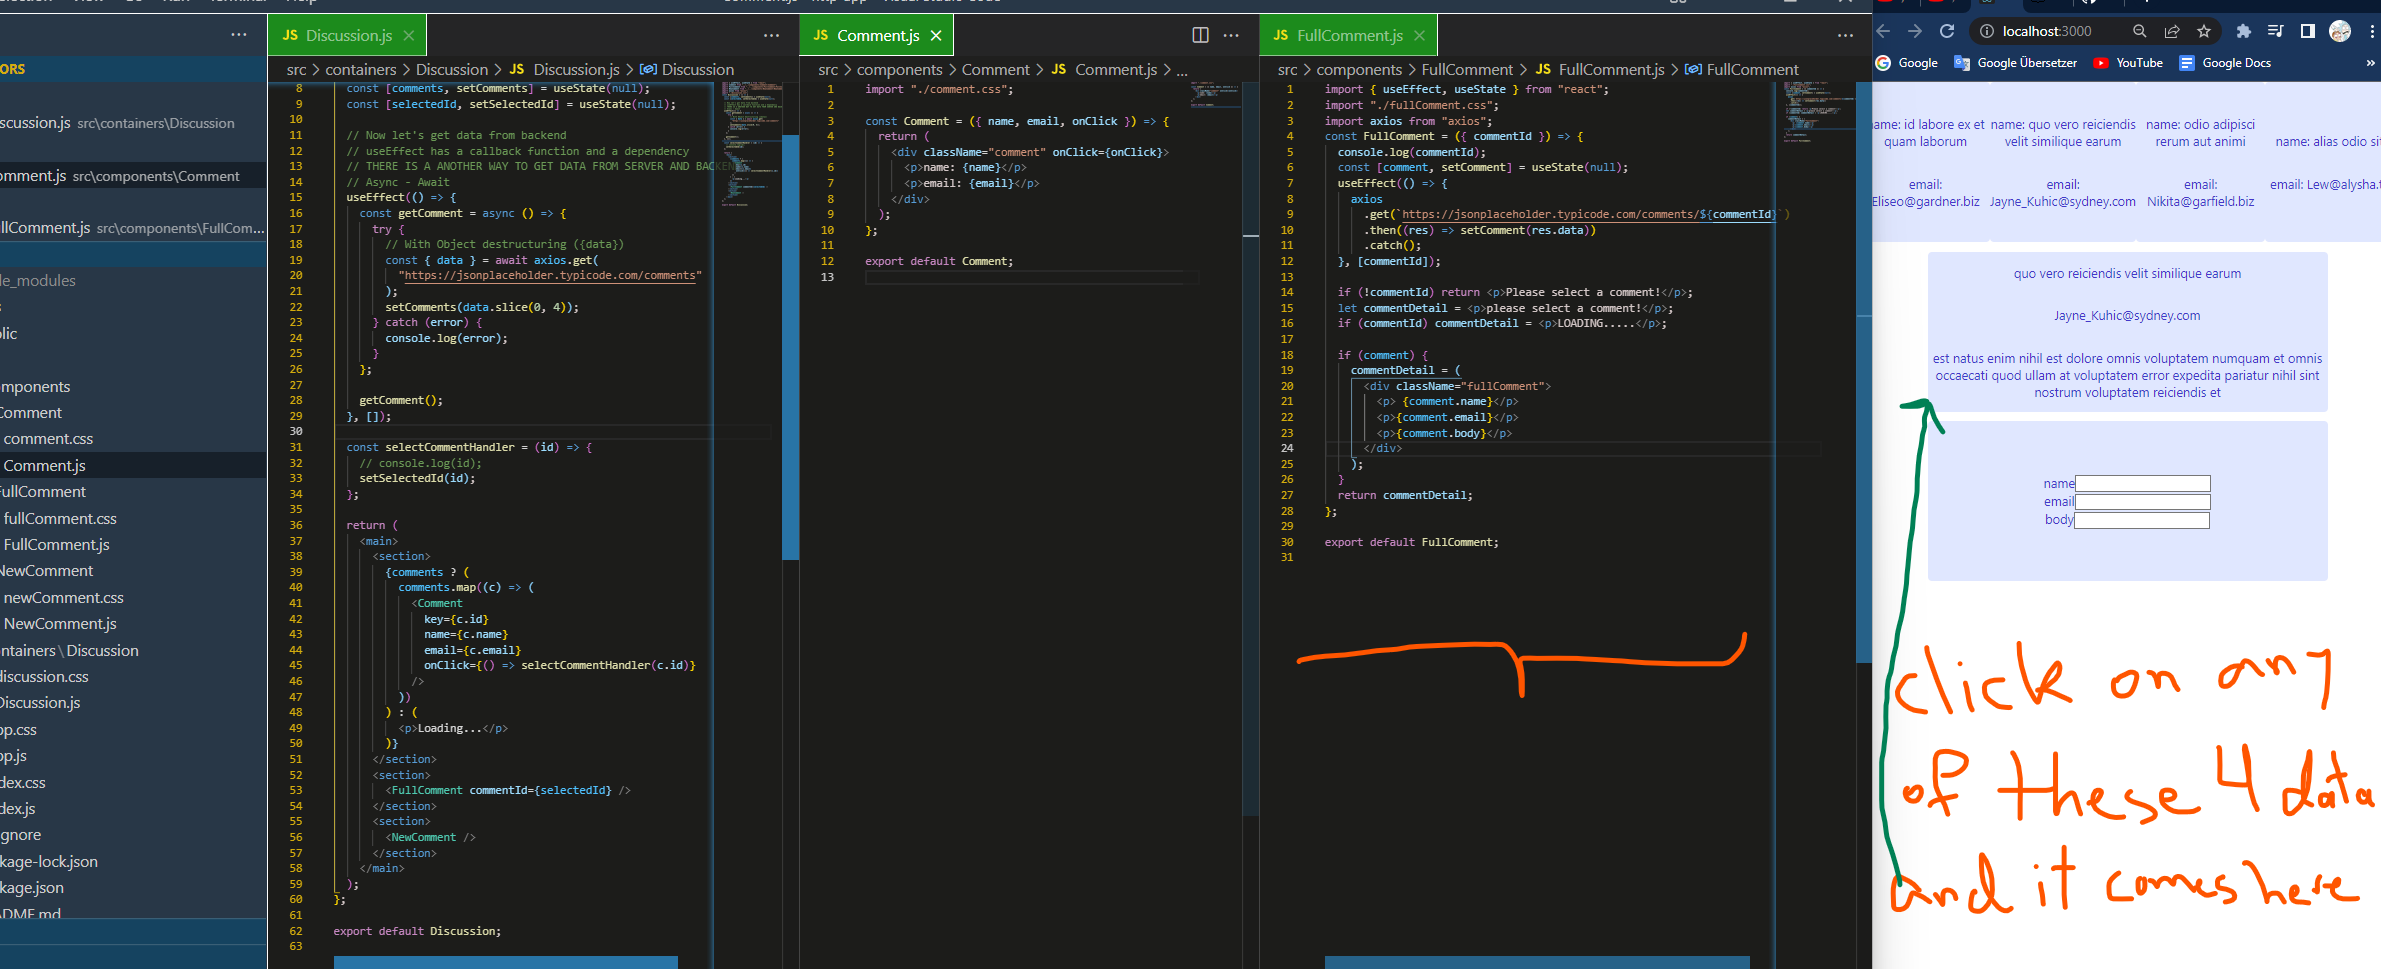
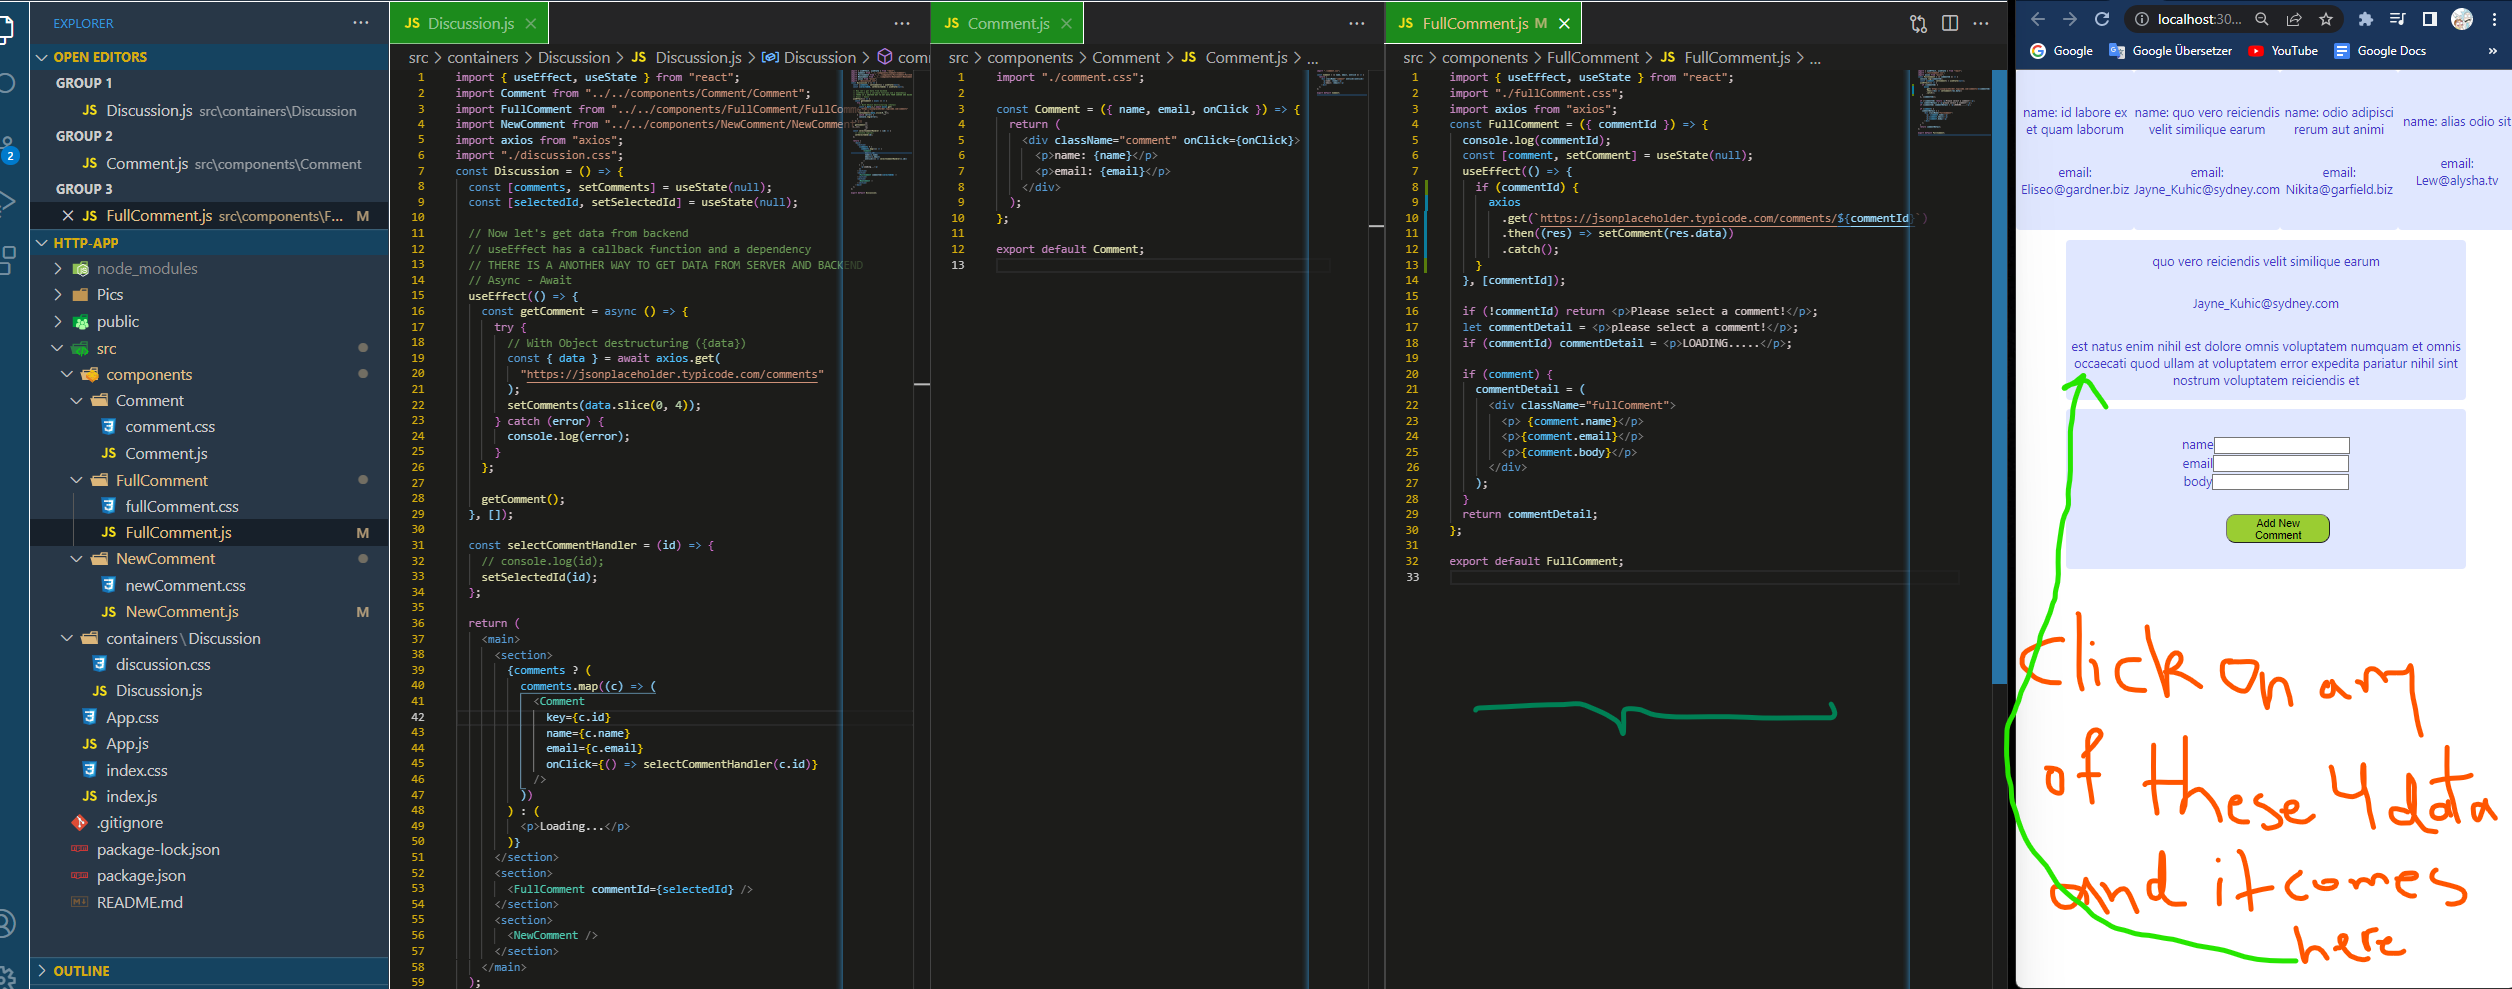
changes

Changed region(s): [[0.0, 0.0, 1.0, 1.0], [0.5283, 0.9598, 0.7459, 1.0], [0.373, 0.2477, 0.4662, 0.2786]]

diff --git a/src/components/NewComment/NewComment.js b/src/components/NewComment/NewComment.js
@@ -21,7 +21,16 @@ const NewComment = () => {
     // We want to send data to BACKEND
     // name, email, content, postId=10
     // create =>
-    axios.post("https://jsonplaceholder.typicode.com/comments/", comment);
+    // NOTICE axios is not exactly like json, it says send an object and dont worry i'll do the rest (like stringify)
+    axios
+      // Now if we want to add to this data another thing (e.g postId)
+      .post("https://jsonplaceholder.typicode.com/comments/", {
+        ...comment,
+        postId: 10,
+      })
+      // NOTICE don't forget to give res.data for the last pic here
+      .then((res) => console.log(res.data))
+      .catch();
   };
   return (
     <div className="newComment">

diff --git a/src/components/FullComment/FullComment.js b/src/components/FullComment/FullComment.js
@@ -5,10 +5,12 @@ const FullComment = ({ commentId }) => {
   console.log(commentId);
   const [comment, setComment] = useState(null);
   useEffect(() => {
-    axios
-      .get(`https://jsonplaceholder.typicode.com/comments/${commentId}`)
-      .then((res) => setComment(res.data))
-      .catch();
+    if (commentId) {
+      axios
+        .get(`https://jsonplaceholder.typicode.com/comments/${commentId}`)
+        .then((res) => setComment(res.data))
+        .catch();
+    }
   }, [commentId]);
 
   if (!commentId) return <p>Please select a comment!</p>;
